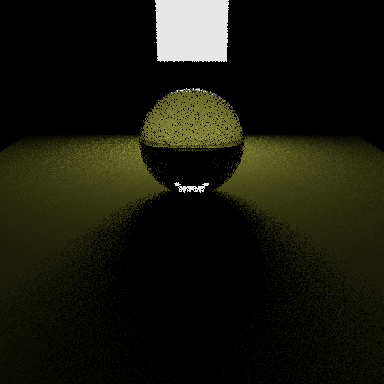
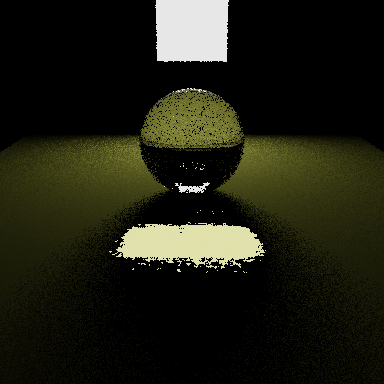
Implemented subset sample and greedy algorithm

Changed region(s): [[0.1875, 0.2188, 0.75, 0.7188], [0.8125, 0.75, 0.875, 0.7812]]

diff --git a/stylized/stylizedcaustics.cpp b/stylized/stylizedcaustics.cpp
@@ -1,17 +1,21 @@
 #include "stylizedcaustics.h"
 #include "imagesampler.h"
+
 #include <iostream>
 
 extern bool useGreedyMethod;
 
-StylizedCaustics::StylizedCaustics() {
+std::random_device rd;
+std::mt19937 g;
 
+StylizedCaustics::StylizedCaustics() {
+    g = std::mt19937(rd());
 }
 
 StylizedCaustics::StylizedCaustics(float width, float height)
     : width(width), height(height)
 {
-
+    g = std::mt19937(rd());
 }
 
 std::vector<Eigen::Vector2f> StylizedCaustics::sample(int imageWidth, int imageHeight, std::string path) {
@@ -35,17 +39,24 @@ void StylizedCaustics::project(const Scene& scene, const std::vector<Photon> pho
 
 void StylizedCaustics::assign(std::vector<Eigen::Vector2f>& images) {
     m = sources.size();
-    n = m;  // TODO: user-define n
+    n = 300;  // TODO: user-define n
 
     std::cout << "m: " << m << " n: " << n << std::endl;
 
-    Eigen::Vector2f maxPoint(-100, -100), minPoint(100, 100);
-    for(auto& point: images) {
-        for(int i = 0; i < 2; i++) {
-            maxPoint[i] = std::max(maxPoint[i], point[i]);
-            minPoint[i] = std::min(minPoint[i], point[i]);
-        }
+    if(m < n) {
+        std::cerr << "Error: n bigger than n!" << std::endl;
+        return;
     }
+
+//    Eigen::Vector2f maxPoint(-100, -100), minPoint(100, 100);
+//    for(auto& point: images) {
+//        for(int i = 0; i < 2; i++) {
+//            maxPoint[i] = std::max(maxPoint[i], point[i]);
+//            minPoint[i] = std::min(minPoint[i], point[i]);
+//        }
+//    }
+
+    std::mt19937 rng(rd());    // Random-number engine used (Mersenne-Twister in this case)
 
     // Sample sources and targets
     targets.reserve(m);
@@ -55,13 +66,35 @@ void StylizedCaustics::assign(std::vector<Eigen::Vector2f>& images) {
         restTargets -= images.size();
     }
 //    std::random_shuffle(images.begin(), images.end());
+    std::shuffle(images.begin(), images.end(), g);
     targets.insert(targets.end(), images.begin(), images.begin() + restTargets);
 //    std::cout << "targets size: " << targets.size() << std::endl;
 
+    // Sample subsets
+    subsetSourcesIndex.clear(), subsetTargetsIndex.clear();
+    subsetSourcesIndex.reserve(n), subsetTargetsIndex.reserve(n);
+    std::vector<int> sampleIndex(m);
+    for(int i = 0; i < m; i++) sampleIndex[i] = i;
+    std::shuffle(sampleIndex.begin(), sampleIndex.end(), g);
+    for(int i = 0; i < n; i++) subsetSourcesIndex[i] = sampleIndex[i];
+    std::shuffle(sampleIndex.begin(), sampleIndex.end(), g);
+    for(int i = 0; i < n; i++) subsetTargetsIndex[i] = sampleIndex[i];
+
     // Initialize assignment map
     assignmentMap.resize(m);
-    for(int i = 0; i < m; i++)
+    std::unordered_map<int, int> target2source;
+    for(int i = 0; i < m; i++) {
         assignmentMap[i] = i;
+        target2source[i] = i;
+    }
+    for(int i = 0; i < n; i++) {
+        sourcesIndexInSubset[subsetSourcesIndex[i]] = i;
+        targetsIndexInSubset[subsetTargetsIndex[i]] = i;
+        int source1 = subsetSourcesIndex[i], source2 = target2source[subsetTargetsIndex[i]];
+        int target1 = subsetTargetsIndex[i], target2 = assignmentMap[subsetSourcesIndex[i]];
+        std::swap(assignmentMap[source1], assignmentMap[source2]);
+        std::swap(target2source[target1], target2source[target2]);
+    }
 
     if(useGreedyMethod) {
         // Initialize distance matrices
@@ -110,9 +143,9 @@ void StylizedCaustics::initializeMatrices() {
     DA = Eigen::MatrixXf(n, n), DB = Eigen::MatrixXf(n, n), DAB = Eigen::MatrixXf(n, n);
     for(int i = 0; i < n; i++) {
         for(int j = 0; j < n; j++) {
-            DA(i, j) = (sources[i] - sources[j]).norm();
-            DB(i, j) = (targets[i] - targets[j]).norm();
-            DAB(i, j) = (sources[i] - targets[j]).norm();
+            DA(i, j) = (sources[subsetSourcesIndex[i]] - sources[subsetSourcesIndex[j]]).norm();
+            DB(i, j) = (targets[subsetTargetsIndex[i]] - targets[subsetTargetsIndex[j]]).norm();
+            DAB(i, j) = (sources[subsetSourcesIndex[i]] - targets[subsetTargetsIndex[j]]).norm();
         }
     }
 }
@@ -127,8 +160,8 @@ void StylizedCaustics::greedy() {
         swapAccepted = false;
         for(int j = 0; j < n; j++) {
             for(int k = 0; k < n; k++) {
-                int x = assignmentMap[j], y = assignmentMap[k];
-                std::swap(assignmentMap[j], assignmentMap[k]);
+                int x = targetsIndexInSubset[assignmentMap[subsetSourcesIndex[j]]], y = targetsIndexInSubset[assignmentMap[subsetSourcesIndex[k]]];
+                std::swap(assignmentMap[subsetSourcesIndex[j]], assignmentMap[subsetSourcesIndex[k]]);
                 // calculate new energy
                 // Modify the first term
                 float originalFirstTerm = firstTerm, originalSecondTerm = secondTerm;
@@ -136,7 +169,7 @@ void StylizedCaustics::greedy() {
                 for(int i = 0; i < n; i++) {
                     if(i == j || i == k) continue;
 
-                    int z = assignmentMap[i];
+                    int z = targetsIndexInSubset[assignmentMap[subsetSourcesIndex[i]]];
 
                     firstTerm -= (DA(i, j) - DB(z, x)) * (DA(i, j) - DB(z, x));
                     firstTerm -= (DA(i, k) - DB(z, y)) * (DA(i, k) - DB(z, y));
@@ -164,7 +197,7 @@ void StylizedCaustics::greedy() {
                     swapAccepted = true;
                     break;
                 } else {
-                    std::swap(assignmentMap[j], assignmentMap[k]);
+                    std::swap(assignmentMap[subsetSourcesIndex[j]], assignmentMap[subsetSourcesIndex[k]]);
                     firstTerm = originalFirstTerm;
                     secondTerm = originalSecondTerm;
                 }

diff --git a/stylized/stylizedcaustics.h b/stylized/stylizedcaustics.h
@@ -5,6 +5,7 @@
 #include "stylized/projection/plane.h"
 #include <Eigen/Dense>
 #include <vector>
+#include <random>
 
 class StylizedCaustics
 {
@@ -32,6 +33,10 @@ private:
     int n;  // Number of points in subsets
     std::vector<Eigen::Vector2f> sources;  // Points of source caustics A
     std::vector<Eigen::Vector2f> targets;  // Points of target image B
+    std::vector<int> subsetSourcesIndex;
+    std::vector<int> subsetTargetsIndex;
+    std::unordered_map<int, int> sourcesIndexInSubset;
+    std::unordered_map<int, int> targetsIndexInSubset;
     std::vector<int> assignmentMap;  // ith point in A should map to assignmentMap[i]th point in B
     Eigen::Vector3f averageOrigin;
 

diff --git a/integrator.cpp b/integrator.cpp
@@ -89,7 +89,7 @@ Vector3f Integrator::traceRayWithPhotonMapping(const Ray& r, const Scene& scene,
         if (obj->getType() == MAT_TYPE_LAMBERTIAN) {
             Vector3f pos = {i.hit[0], i.hit[1], i.hit[2]};
             Vector3f normal = {n[0], n[1], n[2]};
-            sampleColor += pmap_caustic.getGaussianIrradiance(pos, normal, 0.01, 30, 10);
+            sampleColor += pmap_caustic.getGaussianIrradiance(pos, normal, 0.03, 30, 10);
 //            sampleColor += pmap.getGaussianIrradiance(pos, normal, 0.02, 20, 5);
         } else {
             Ray nextRay(ray);

diff --git a/pathtracer.cpp b/pathtracer.cpp
@@ -121,7 +121,7 @@ void PathTracer::generatePhotons(const Scene& scene) {
     std::cout << "finish first generate" << std::endl;
     pmap_r.balance();
     std::cout<<"finish generating photon map, size: "<<pmap_r.photons.size()<<std::endl;
-    pmap_caustic.maxPhotonNum = 300;
+    pmap_caustic.maxPhotonNum = 50000;
     photonmapper.generatePhotonMap(pmap_caustic, scene, true);
     pmap_caustic.balance();
     std::cout<<"finish generating caustic photon map, size: "<<pmap_caustic.photons.size()<<std::endl;
